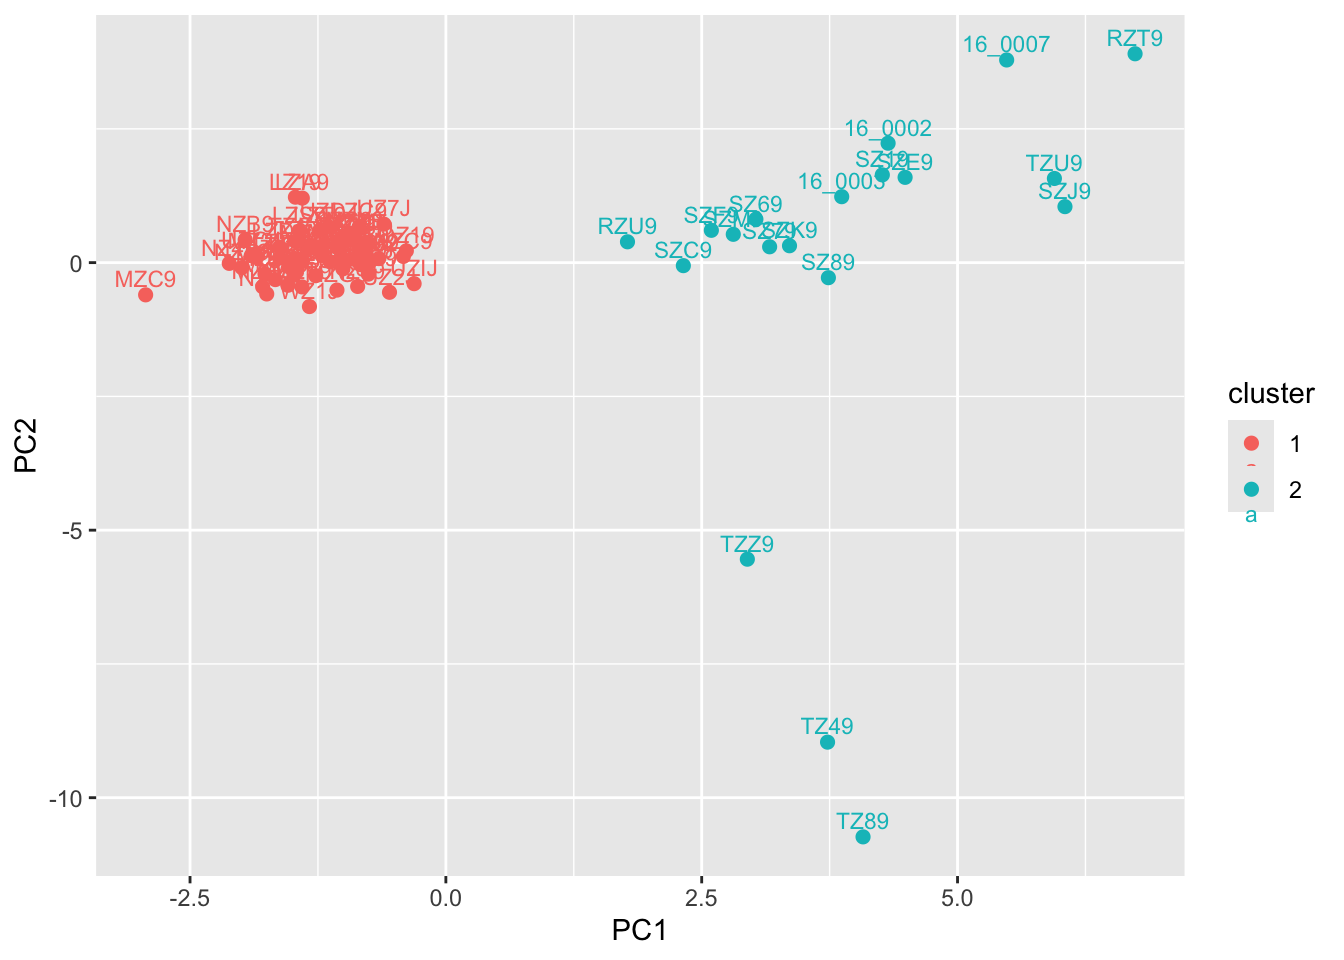
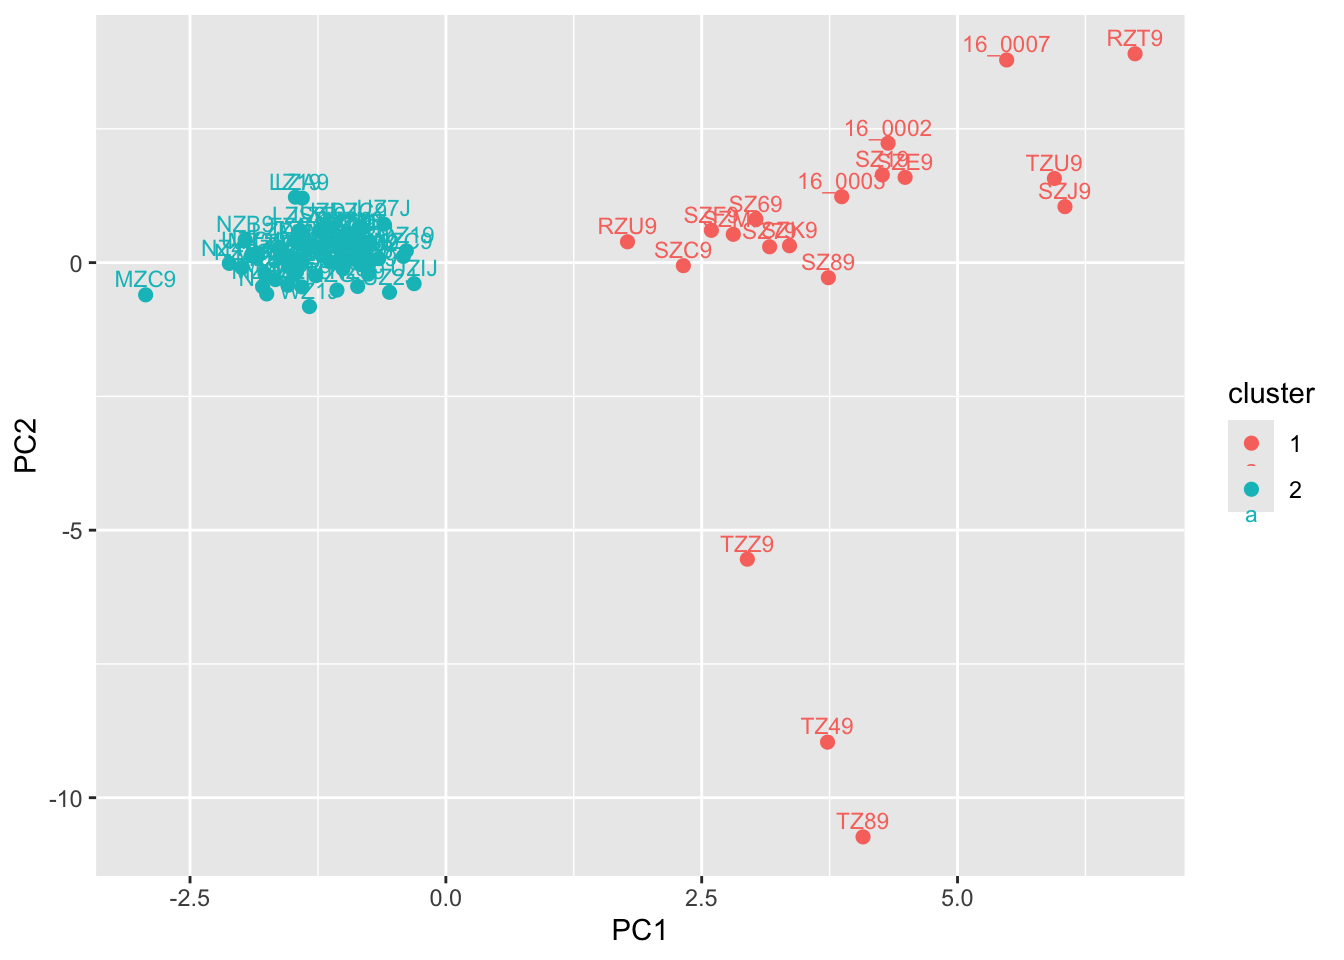
fix typo

diff --git a/docs/structure.html b/docs/structure.html
@@ -429,25 +429,25 @@ NULL
 
 $grp
     002     003     004 16_0002 16_0003 16_0007    LZ19    LZ49    LZA9    LZC9 
-      1       1       1       2       2       2       1       1       1       1 
+      2       2       2       1       1       1       2       2       2       2 
    LZD9    LZS9    LZT9    LZX9    LZZ9    MZ19    MZ29    MZ59    MZ69    MZ89 
-      1       1       1       1       1       1       1       1       1       1 
-   MZ99    MZC9    MZD9    MZE9    MZG9    MZI9    MZM9    MZP9    MZQ9    MZS9 
-      1       1       1       1       1       1       1       1       1       1 
-   MZT9    MZU9    MZV9    MZW9    MZY9    NZ49    NZ59    NZ69    NZ79    NZA9 
-      1       1       1       1       1       1       1       1       1       1 
-   NZB9    NZC9    NZE9    NZF9    NZG9    NZK9    OZ19    PZC9    PZX9    RZT9 
-      1       1       1       1       1       1       1       1       1       2 
-   RZU9    SZ19    SZ69    SZ79    SZ89    SZC9    SZE9    SZF9    SZJ9    SZK9 
       2       2       2       2       2       2       2       2       2       2 
-   SZM9    TZ49    TZ89    TZCJ    TZU9    TZZ9    UZ1J    UZ2J    UZ3J    UZ7J 
-      2       2       2       1       2       2       1       1       1       1 
-   UZ8J    UZAJ    UZDJ    UZFJ    UZGJ    UZIJ    UZJJ    UZZJ    WZ1J    ZZY8 
+   MZ99    MZC9    MZD9    MZE9    MZG9    MZI9    MZM9    MZP9    MZQ9    MZS9 
+      2       2       2       2       2       2       2       2       2       2 
+   MZT9    MZU9    MZV9    MZW9    MZY9    NZ49    NZ59    NZ69    NZ79    NZA9 
+      2       2       2       2       2       2       2       2       2       2 
+   NZB9    NZC9    NZE9    NZF9    NZG9    NZK9    OZ19    PZC9    PZX9    RZT9 
+      2       2       2       2       2       2       2       2       2       1 
+   RZU9    SZ19    SZ69    SZ79    SZ89    SZC9    SZE9    SZF9    SZJ9    SZK9 
       1       1       1       1       1       1       1       1       1       1 
+   SZM9    TZ49    TZ89    TZCJ    TZU9    TZZ9    UZ1J    UZ2J    UZ3J    UZ7J 
+      1       1       1       2       1       1       2       2       2       2 
+   UZ8J    UZAJ    UZDJ    UZFJ    UZGJ    UZIJ    UZJJ    UZZJ    WZ1J    ZZY8 
+      2       2       2       2       2       2       2       2       2       2 
 Levels: 1 2
 
 $size
-[1] 61 19</code></pre>
+[1] 19 61</code></pre>
 </div>
 </div>
 <p>We can visualize these clusters with a simply color aesthetic, which gives you unsurprising individual assignment:</p>
@@ -514,16 +514,16 @@ $eig (eigenvalues): 2986  vector    length content
 <pre><code># A tibble: 160 × 3
    sample  cluster ancestry
    &lt;chr&gt;   &lt;chr&gt;      &lt;dbl&gt;
- 1 002     1       1   e+ 0
- 2 002     2       7.57e-39
- 3 003     1       1   e+ 0
- 4 003     2       1.04e-49
- 5 004     1       1   e+ 0
- 6 004     2       1.54e-46
- 7 16_0002 1       1.05e-47
- 8 16_0002 2       1   e+ 0
- 9 16_0003 1       2.19e-50
-10 16_0003 2       1   e+ 0
+ 1 002     1       7.57e-39
+ 2 002     2       1   e+ 0
+ 3 003     1       1.04e-49
+ 4 003     2       1   e+ 0
+ 5 004     1       1.54e-46
+ 6 004     2       1   e+ 0
+ 7 16_0002 1       1   e+ 0
+ 8 16_0002 2       1.05e-47
+ 9 16_0003 1       1   e+ 0
+10 16_0003 2       2.19e-50
 # ℹ 150 more rows</code></pre>
 </div>
 </div>
@@ -560,9 +560,9 @@ $eig (eigenvalues): 2986  vector    length content
 <span id="cb29-11"><a href="#cb29-11" aria-hidden="true" tabindex="-1"></a>grp_auto<span class="sc">$</span>Kstat</span></code></pre></div><button title="Copy to Clipboard" class="code-copy-button"><i class="bi"></i></button></div>
 <div class="cell-output cell-output-stdout">
 <pre><code>     K=1      K=2      K=3      K=4      K=5      K=6      K=7      K=8 
-365.2108 365.0958 366.7781 367.9647 369.9612 371.9115 374.0006 375.8181 
+365.2108 365.0958 366.3905 367.9647 369.9738 371.9081 373.8672 375.8181 
      K=9     K=10 
-377.8302 380.0877 </code></pre>
+377.9740 380.4575 </code></pre>
 </div>
 <div class="code-copy-outer-scaffold"><div class="sourceCode cell-code" id="cb31"><pre class="sourceCode r code-with-copy"><code class="sourceCode r"><span id="cb31-1"><a href="#cb31-1" aria-hidden="true" tabindex="-1"></a><span class="co"># plot!</span></span>
 <span id="cb31-2"><a href="#cb31-2" aria-hidden="true" tabindex="-1"></a><span class="fu">plot</span>(</span>

diff --git a/docs/index.html b/docs/index.html
@@ -316,7 +316,7 @@ ul.task-list li input[type="checkbox"] {
 <td>4/20 - 4/24</td>
 <td>Detecting Natural Selection</td>
 <td><ul>
-<li><a href="https://doi.org/10.1038/s41467-025-62811-w">McCoy et al.&nbsp;2013</a> <a href="papers/meek_et_al_2025.pdf">(<strong>pdf</strong>)</a></li>
+<li><a href="https://doi.org/10.1038/s41467-025-62811-w">Meek et al.&nbsp;2025</a> <a href="papers/meek_et_al_2025.pdf">(<strong>pdf</strong>)</a> |</li>
 </ul></td>
 </tr>
 <tr class="even">
